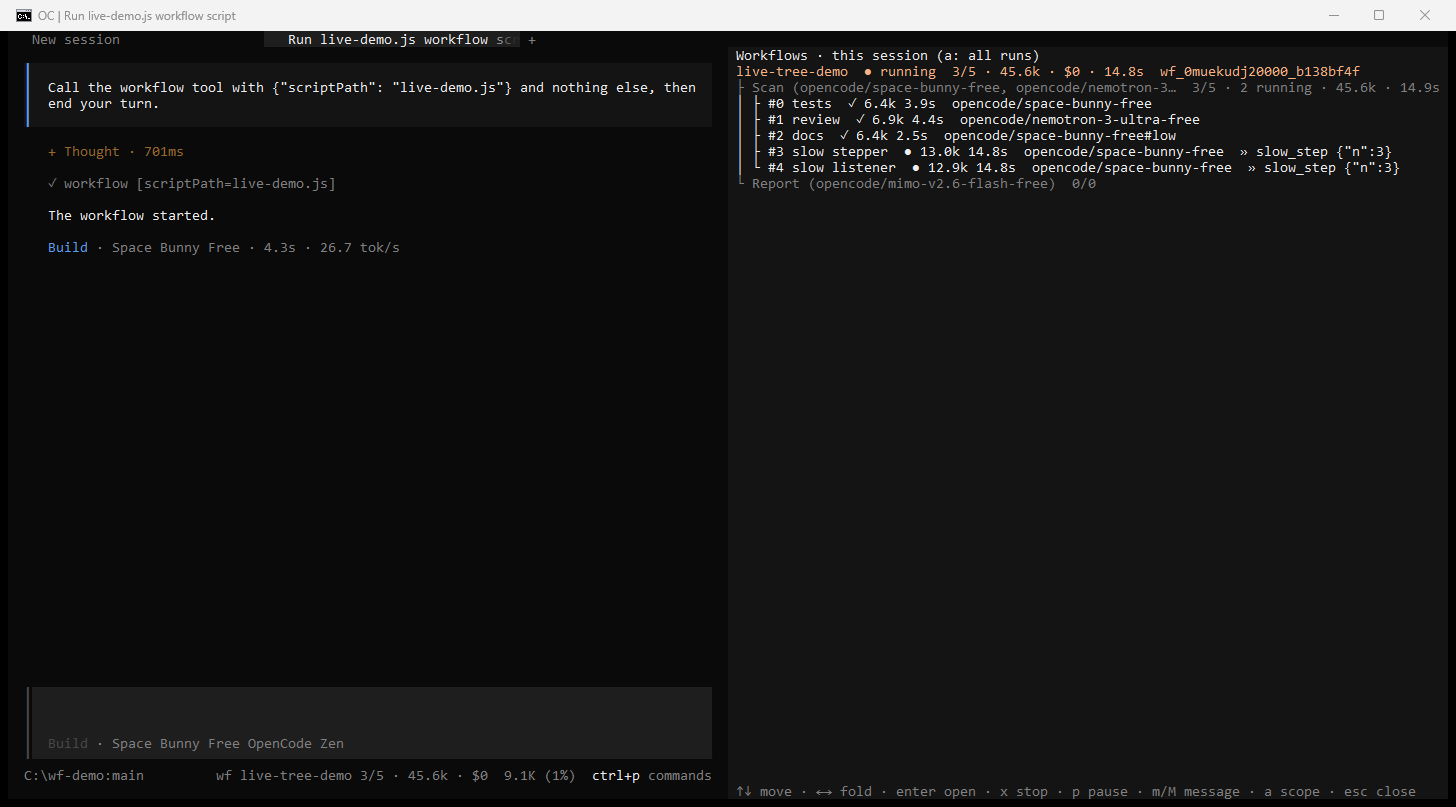
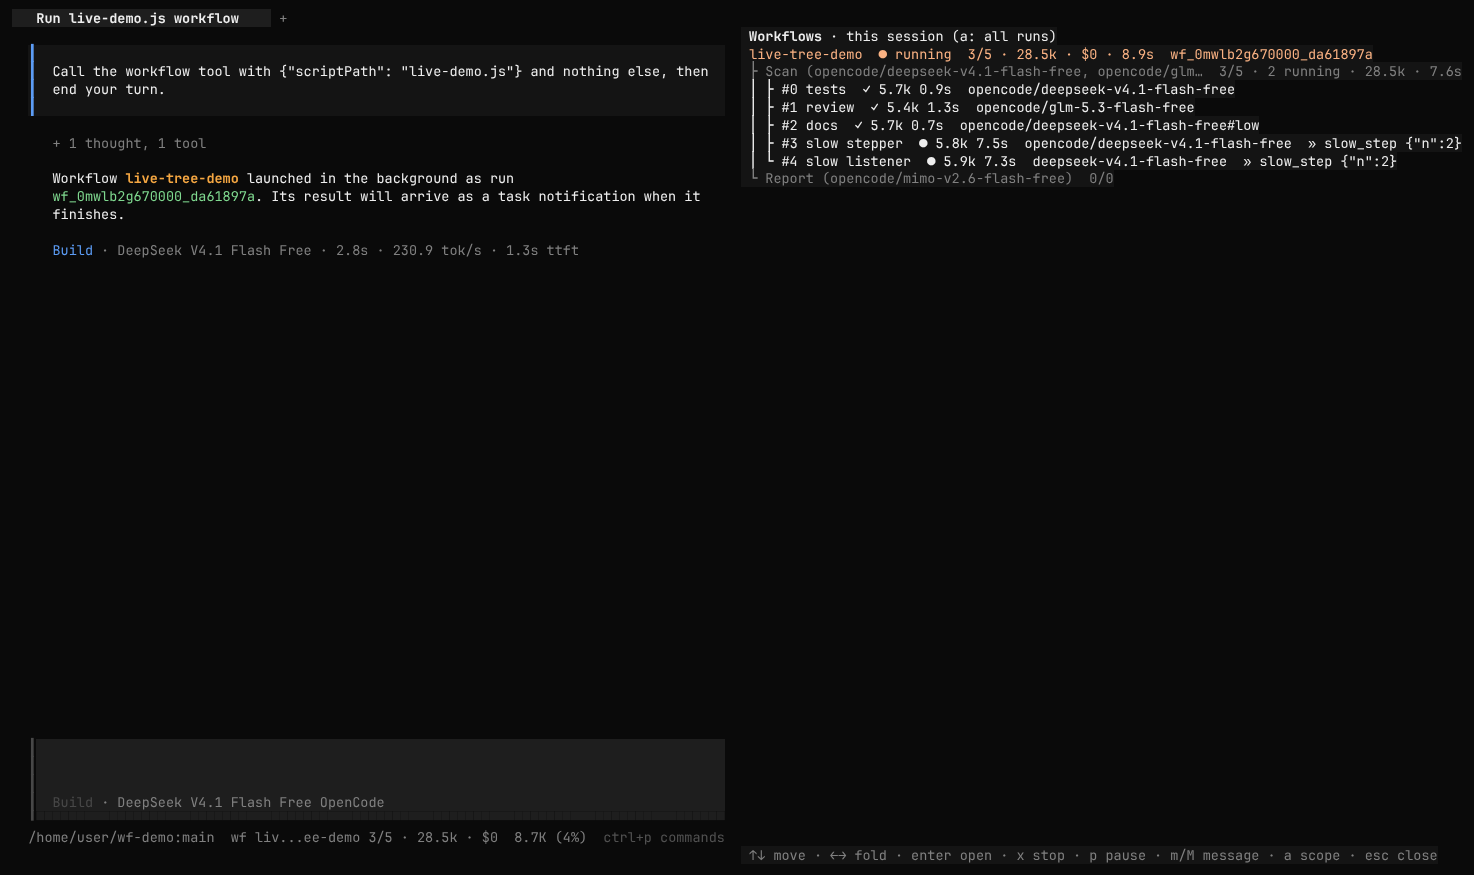
docs: retake the TUI screenshots on opencode 2.3.0; add agent dialog and sidebar shots
Six images from a live run on opencode 2.3.0 (tmux on Linux, free opencode/* models): the running
tree, the new agent dialog, the sidebar section, steering, the stop confirmation and the steered
agent's session. The narrow and finished-run images stay from 2.0.15 (free quota ran out before a
clean finish). PARITY X25/X26 are now live-verified; E2E.md gets the Linux capture recipe.

Claude-Session: https://claude.ai/code/session_01C7UiNHuVQpVWZhThwAvyXj

diff --git a/docs/PARITY.md b/docs/PARITY.md
@@ -144,8 +144,8 @@ Design: [`docs/design/steering-and-live-tree.md`](design/steering-and-live-tree.
 | X22 | opencode 2.3+ `experimental.idle` hook, steering side: when a workflow child of this plugin instance finishes its model work, the hook moves its message window to `finishing` and waits for the sends in flight; a sent message not yet in the child's context waits in its inbox, so opencode continues the SAME execution with it (no wake, no extra turn) and the window reopens. A message posted after that point is refused `finishing` (X02) instead of being parked. If the execution goes on anyway (another plugin's idle hook such as `/goal`, a user prompt in the child, the hook's cap), the window the hook closed reopens at the next model step (session `context` hook); one the runner closed itself stays closed. Other sessions are ignored (the `metadata.workflowRunId` tag is looked up once per session and cached). The hook never rejects (a rejected hook would fail the child) and stops after 3 s. Nothing depends on it: on 2.0.15 it registers and never fires, and a worktree child (hook in the worktree instance, which has no mailbox), a timed-out hook or an interrupted turn take the X03 wake. `OPENCODE_WORKFLOW_IDLE_HOOK=0` (also `false`, `no`, `off`) registers no hook; nothing is registered when `ctx.session.hook` is missing | EXT (source-verified, not live-verified on 2.3.0: `core/session/runner/llm.ts`, `plugin/goal.ts`) | `extensions.test.ts` "X22 …" ×2<br>unit `idle-hook.test.ts` "X22 …" ×10 |
 | X23 | opencode 2.3+ `experimental.idle` hook, structured-output side: a schema agent (P21) that stops without an accepted `workflow_submit` is nudged in the same execution with the runner's re-prompt text (the last validation error when its attempt submitted invalid output), as `synthetic({delivery:"steer", resume:false, metadata:{workflowRunId, workflowNudge:n}})`. Not when the agent is being stopped, its own subagent or image job is still running (X31), its runner has finished, or the attempt budget is spent. A nudge whose send finishes after the hook's 3 s cap is neither counted nor reopens the window (the runner's re-prompt counts that attempt). Nudges share the `MAX_STRUCTURED_OUTPUT_RETRIES` budget with invalid submissions and runner re-prompts: the submit registry counts each attempt once (an invalid submission followed by a stop is one attempt), then the JSON fallback or `schema_failed` follow as before. A worktree child is nudged by the worktree instance through the shared storage, whose copies are ordered by a revision number (a tie goes to the stored copy); an instance never revives a session another instance unregistered, and one instance's writes for a session are serialized. Messages sent during the nudged continuation are delivered (X01). With the hook off or absent the runner re-prompts in new turns (P21 unchanged) | EXT (source-verified, not live-verified on 2.3.0) | `extensions.test.ts` "X23 …" ×2<br>unit `idle-hook.test.ts` "X23 …" ×10, `opencode-runner.test.ts` "P21 X23 …" ×6 |
 | X24 | Freeform `workflow_script` tool (opencode 2.3.0 freeform tool input): a NEW inline script sent as raw text instead of JSON-escaped `{script}`. Input schema `{script: string}` (exactly one required string property, as opencode requires) with `freeform: {type: "text"}`; execute always receives `{script}` and takes the same launch path as `workflow {script}` (same output, P02; persisted script and `scriptPath`, P04; P03 errors). A single code fence wrapping the whole input is stripped. Any other key with a value (a JSON call from a model without freeform input) returns `status:"async_launched"` with the error `workflow_script takes only the script; use the workflow tool for args, name, scriptPath, resumeFromRunId or budget`, and nothing runs. `options.permission: "workflow"`: opencode hides a tool whose permission key (`options.permission ?? name`) is wholly denied, so every deny of `workflow` (workflow children P60, Plan mode, user and agent rules) hides it too; there is no separate rule. The session `context` hook drops it from requests whose model's `capabilities.freeform` (from `ctx.model.list()`, cached 5 min) does not list `text`; an unknown model keeps it (it still works as a JSON tool). The `workflow` tool's schema, options and description are unchanged (Claude Code parity, prompt caching). Opt out with the plugin option `freeformTool: false` or env `OPENCODE_WORKFLOW_FREEFORM=0` (`false`, `no`, `off`). The authoring reference tells the model to use it for new inline scripts when it is offered | EXT (the model-side raw-text encoding is opencode's and is not live-verified here) | `tool-surface.test.ts` "X24 …" ×11, "P01 …" (workflow tool unchanged) |
-| X25 | TUI agent dialog (`<leader>j`, palette "Workflows: agents (steer, stop, open)"): one searchable `ui.dialog.select` of the running and queued agents of the runs the tree shows (newest active run first, then by index), titled `#i label`, described `status · phase · model`, grouped by workflow name, starting on the agent selected in the panel. Search: `#3` or `3` lists that index first, then labels starting with the query, then labels, phases, workflow names and run ids containing it. Enter steers the agent (the `m` prompt); footer actions `ctrl+u` urgent steer (`M`), `ctrl+d` stop after a confirm (`x`) and `ctrl+o` open its session (a tab when tabs are on); `ctrl+n`/`ctrl+p` stay the list's own keys. Every action re-reads the agent's current row, so an agent that finished meanwhile gets the panel's toast instead, and one no longer listed a toast. The prompt or confirm an action opens replaces the dialog | EXT (not live-verified on 2.3.0) | `tui-client.test.ts` "X25 …" ×5 |
-| X26 | TUI sidebar (`sidebar.content` slot, after opencode's own sections): hidden when the session has no runs; a `Workflows` header with a collapse toggle only when there are more than two runs (the state is kept in the plugin's durable `storage.store`; collapsed, the header says `(1 running · $0.42)`: running and paused counts, or `n runs`, and the session's total cost); then up to 3 runs, active newest first, then the newest finished, then `+n more`. Each run: a dot colored by status, the name (≤ 24 cells), `<done>/<total>`, and a muted line: `[paused · ]<phase> · <n> running · <tokens> · $<cost>` while active (the last phase with running agents, else the first unfinished one), `<status> · <tokens> · $<cost>` once finished. Clicking a run opens the panel with that run selected and unfolded. A workflow child session's sidebar shows its parent's runs (the same mapping as the footer) | EXT (not live-verified on 2.3.0) | `tui-client.test.ts` "X26 …" ×3 |
+| X25 | TUI agent dialog (`<leader>j`, palette "Workflows: agents (steer, stop, open)"): one searchable `ui.dialog.select` of the running and queued agents of the runs the tree shows (newest active run first, then by index), titled `#i label`, described `status · phase` (no model: the dialog cuts long descriptions without an ellipsis; the tree rows show it), grouped by workflow name, starting on the agent selected in the panel. Search: `#3` or `3` lists that index first, then labels starting with the query, then labels, phases, workflow names and run ids containing it. Enter steers the agent (the `m` prompt); footer actions `ctrl+u` urgent steer (`M`), `ctrl+d` stop after a confirm (`x`) and `ctrl+o` open its session (a tab when tabs are on); `ctrl+n`/`ctrl+p` stay the list's own keys. Every action re-reads the agent's current row, so an agent that finished meanwhile gets the panel's toast instead, and one no longer listed a toast. The prompt or confirm an action opens replaces the dialog | EXT (live-verified on 2.3.0 in a Linux TUI: the dialog listed the running agents, Enter sent a message that the agent answered with STEERED-OK, `ctrl+d` opened the stop confirmation; README screenshots) | `tui-client.test.ts` "X25 …" ×5 |
+| X26 | TUI sidebar (`sidebar.content` slot, after opencode's own sections): hidden when the session has no runs; a `Workflows` header with a collapse toggle only when there are more than two runs (the state is kept in the plugin's durable `storage.store`; collapsed, the header says `(1 running · $0.42)`: running and paused counts, or `n runs`, and the session's total cost); then up to 3 runs, active newest first, then the newest finished, then `+n more`. Each run: a dot colored by status, the name (≤ 24 cells), `<done>/<total>`, and a muted line: `[paused · ]<phase> · <n> running · <tokens> · $<cost>` while active (the last phase with running agents, else the first unfinished one), `<status> · <tokens> · $<cost>` once finished. Clicking a run opens the panel with that run selected and unfolded. A workflow child session's sidebar shows its parent's runs (the same mapping as the footer) | EXT (live-verified on 2.3.0 in a Linux TUI: the section showed the running run with its phase, running count, tokens and cost, and showed the parent's run from a workflow agent's session; folding not exercised; README screenshots) | `tui-client.test.ts` "X26 …" ×3 |
 | X27 | TUI cold start: on opencode 2.3 `rpc.call` no longer waits for plugins to load, so the tree's first `list` can fail with `rpc.unavailable`. A `list` that throws is retried after 250, 500, 1000, 2000 and 4000 ms, then the tree gives up and says `workflows RPC unavailable (…); use /workflows` (`workflows list failed (…)` for another error). While it retries an unavailable RPC the panel only says `loading…`; another error is shown with `(retrying)`. The attempts reset on a successful list, on a target change (viewed session, scope) and when the host reports `plugin.updated`; a `delta` from the target Location while the tree is not ready lists again at once. A `list` answered `{ok:false}` is shown, not retried. The driver is host-agnostic (`src/client/sync.ts`) | EXT (not live-verified on 2.3.0) | `tui-client.test.ts` "X27 …" ×7<br>unit `client.test.ts` |
 | X28 | Desktop app composer pill (`./gui-experimental` entry, `ComposerPill`): shown above a session's composer only while that session has an active run and the `dynamic-workflows` RPC of the session's server answered; label `wf <done>/<total> · <tokens> · $<cost>` of the newest active run (` +n` for more, the TUI footer's parts), its title (accessible name and menu heading) `Workflow <name>` (`Workflow <name> ‖ paused`); tone `danger` when an active run has an error or a failed agent, else `warning` when paused or with warnings; one menu row per active run (newest first, detail `<done>/<total> · <tokens> · $<cost>`) that opens the side panel with that run selected and unfolded. A workflow child's tab targets its parent session and the parent's Location (X15's rule). One sync (`TreeSync`, X27) per server and Location that an open tab needs, pruned when tabs close; calls go to the session's own server (`ctx.servers.get(id).client`), one event subscription per server, subscribed again on reconnect or a new client, with a resync every 15 s while a run is active. On a server whose plugin is absent, disabled or older, `list` fails: the pill stays hidden and the panel says why in one line; it retries on a routed-session change, a reconnect, `plugin.updated` or any delta. Missing fields read as defaults | EXT (not live-verified: experimental GUI API, opencode 2.3) | `gui.test.ts` "X28 …" ×7<br>unit `install-docs.test.ts` (bundle) |
 | X29 | Desktop app side panel `tree` (`Panel`, side region, `narrow` width, a mobile view; key `<plugin id>:tree`): opened by the command "Workflows: toggle the live progress tree" (also `/wf`), the side panel `+` menu, or a pill row. Rows from the TUI's `rowsFor` (run → phases → agents) with a status glyph, title and a muted detail line (status, counts, tokens, cost, elapsed, model, activity, messages, run id); icon buttons dispatch exactly `actionFor(row, key)`, each shown only when its action applies: fold (run, phase), open (an agent's or the run's session in a tab, not the one the panel is next to), pause/resume (run rows), stop (after a `danger` confirm), message and urgent message (`dialogs.prompt`); info and `control` answers as toasts. A switch shows this session's runs or every run of the project. Fold, scope and selection are kept per tab (session key), pruned when the tab closes | EXT (not live-verified: experimental GUI API, opencode 2.3) | `gui.test.ts` "X29 …" ×6 |

diff --git a/README.md b/README.md
@@ -323,9 +323,10 @@ an extension: Claude Code's workflows do not have it.
 
 Or ask the model ("tell the researchers to prefer primary sources"): it calls `workflow_control`
 with `action: "message"`. The model only does this when you ask, and only for its own session's runs.
-In the TUI, select an agent in the [live progress tree](#live-progress-tree-tui) and press `m`:
+In the TUI, select an agent in the [live progress tree](#live-progress-tree-tui) and press `m`, or
+pick it in the agent dialog (`ctrl+x j`) and press Enter:
 
-![The live tree's message dialog, sending "Also end your reply with STEERED-OK." to the running agent #4 slow listener](docs/assets/live-tree-steer.png)
+![The message dialog for the running agent #4 slow listener, with the text "Also end your reply with STEERED-OK."; the tree behind it shows both slow agents on slow_step call 6](docs/assets/live-tree-steer.png)
 
 | Target | Meaning |
 |---|---|
@@ -360,7 +361,7 @@ How it behaves:
 In the terminal UI, the plugin adds a live, interactive view of your workflow runs. This is an
 extension beyond Claude Code's workflow tool.
 
-![The live progress tree next to a session: the Scan phase lists the models its agents use, the Report phase shows its meta model label, and each agent row shows the model it runs on (one with the #low effort variant, one on another model) while two agents run slow_step tool calls](docs/assets/live-tree-running.png)
+![The live progress tree next to a session on opencode 2.3.0: the Scan phase lists the models its agents use, the Report phase shows its meta model label, and each agent row shows the model it runs on (one with the #low effort variant, one on opencode/glm-5.3-flash-free) while two agents run slow_step tool calls](docs/assets/live-tree-running.png)
 
 - **Footer.** While a run of the current session is active, the prompt footer shows
   `wf <name> <done>/<total> · <tokens> · $<cost>` (`+n` when more runs are active). The home screen
@@ -376,7 +377,7 @@ extension beyond Claude Code's workflow tool.
   and elapsed time always stay. The footer likewise shortens only the workflow name.
   ![The tree in a 120-column terminal: the run id is gone; on the rows that don't fit, the agent model loses its provider and is shortened along with the activity, while status, tokens and time stay; #3 was stopped](docs/assets/live-tree-narrow.png)
 - **Models.** Each agent row shows the model the agent runs on, as `provider/model#variant`:
-  `opencode/space-bunny-free#low` is the parent's model with `effort: 'low'`, and an agent with its
+  `opencode/deepseek-v4.1-flash-free#low` is the parent's model with `effort: 'low'`, and an agent with its
   own `model` shows that model. It is the model opencode reports for the agent's session, so if
   opencode falls back to another model, the row shows it (and the agent gets a warning). A phase
   shows its `meta.phases[].model` label when the script declares one, and otherwise the models its
@@ -411,21 +412,27 @@ or run id. Then:
 | `ctrl+d` | stop the agent, after a confirmation |
 | `ctrl+o` | open the agent's session (in a tab when tabs are on) |
 
+![The agent dialog over a running workflow: a search line, the two running agents #3 slow stepper and #4 slow listener with their status and phase, and the actions urgent steer ctrl+u, stop ctrl+d, open ctrl+o](docs/assets/live-tree-agent-dialog.png)
+
 **Sidebar.** When the session has runs, the session sidebar gets a **Workflows** section under
 opencode's own: up to three runs (running ones first) with a colored status dot, `done/total`, and a
 line with the current phase, running agents, tokens and cost. Click a run to open the panel on it.
 With more than two runs, click the header to fold the section (it stays folded across restarts and
 then shows `(1 running · $0.42)`).
 
+![The session sidebar under Context: a Workflows section with live-tree-demo at 3/5 and the line "Scan · 2 running · 28.5k · $0", while the prompt footer shows the same run](docs/assets/live-tree-sidebar.png)
+
 Right after opencode starts, the plugins may still be loading: the panel says `loading…` and the tree
 retries for a few seconds before it reports that the workflows RPC is unavailable.
 
-| Opening an agent (Enter) | Stopping it (`x`, then confirm) | Finished, with the notification |
+| Opening an agent (Enter) | Stopping it (`x`, or `ctrl+d` in the agent dialog, then confirm) | Finished, with the notification |
 |---|---|---|
-| ![The steered agent's child session: the workflow message arrives between two slow_step calls and its reply ends with STEERED-OK; the tree still tracks the parent run](docs/assets/live-tree-open-agent.png) | ![The stop confirmation for #3 slow stepper](docs/assets/live-tree-stop.png) | ![The parent session answers the task notification; the tree shows the finished run with one stopped and one steered agent](docs/assets/live-tree-done.png) |
+| ![The steered agent's child session: the workflow message arrives between its slow_step calls and its reply ends with STEERED-OK; the sidebar's Workflows section still shows the parent's run](docs/assets/live-tree-open-agent.png) | ![The stop confirmation for #3 slow stepper, opened from the agent dialog](docs/assets/live-tree-stop.png) | ![The parent session answers the task notification; the tree shows the finished run with one stopped and one steered agent](docs/assets/live-tree-done.png) |
 
-The TUI screenshots come from opencode 2.0.15 in Windows conhost, with free `opencode/*` models
-(the parent on `opencode/space-bunny-free`) and a demo tool, `slow_step`, that takes 4 s per call.
+The TUI screenshots come from opencode 2.3.0 in a Linux terminal (tmux, 180×48), with free
+`opencode/*` models (the parent on `opencode/deepseek-v4.1-flash-free`) and a demo tool,
+`slow_step`, that takes 4 s per call. The narrow-panel and finished-run images are from the same
+demo on opencode 2.0.15 in Windows conhost.
 
 **Notifications.** When a run finishes while the terminal is not focused, the TUI sends a desktop
 notification if you enabled opencode's attention notifications in `cli.json` (next to your

diff --git a/docs/E2E.md b/docs/E2E.md
@@ -163,6 +163,29 @@ console size). Seen: the rows showed `opencode/space-bunny-free#low` and the oth
 `agents/<i>.json` recorded the same `model`, the unlabeled phase listed its agents' models, and at
 120 columns the agent models lost their provider first.
 
+### On Linux (0.3.0 screenshots)
+
+The 0.3.0 README images (`live-tree-running`, `-agent-dialog`, `-sidebar`, `-steer`, `-stop`,
+`-open-agent`) were taken on opencode 2.3.0 without a desktop:
+
+1. `npm run build`. Put the sandbox under `.sandbox/<name>/` (`XDG_*`, `OPENCODE_TEST_HOME`, a
+   `package.json` with another name at its root) with `opencode.json`
+   `{"plugins":["file:///<repo>"],"model":"opencode/deepseek-v4.1-flash-free"}`. Use a git project in
+   a short path outside the repo with the `slow_step` plugin and the five-agent script above.
+2. Start the TUI in a fixed-size tmux pane with truecolor: a tmux config with
+   `set -g default-terminal "tmux-256color"` and `set -as terminal-overrides ",*:RGB"`, then
+   `tmux -L shots -f <conf> new-session -d -s s -x 180 -y 48 "<launch.sh>"`, where the launch script
+   exports the sandbox env and `COLORTERM=truecolor` and runs `opencode2 <project>`.
+3. Drive it with `tmux -L shots send-keys -t s -l '<text>'`, `Enter`, `C-x o` (panel), `C-x j`
+   (agent dialog), `C-d` (stop), `Down`. Capture with `tmux -L shots capture-pane -p -e -t s`
+   (24-bit SGR escapes), convert the escapes to an HTML `<pre>` (JetBrains Mono, 13.5 px, background
+   `#0a0a0a`) and screenshot the `<pre>` with Playwright's Chromium at device scale factor 1.
+4. The TUI starts a background `opencode serve --service`: when done, kill the tmux server and only
+   the service whose environment points at your sandbox.
+
+Free models have a daily quota (`provider.free-limit`); one demo run used most of it, and the last
+agent failed with that error. The finished-run image therefore stays the 2.0.15 one.
+
 ## What is covered (live)
 
 

diff --git a/docs/OPENCODE-API-NOTES.md b/docs/OPENCODE-API-NOTES.md
@@ -11,6 +11,14 @@ changed in **2.3.0** (the current pin).
 Read from the `v2.0.15..v2.3.0` tags of `anomalyco/opencode`; the unit and parity suites pass against
 the 2.3.0 packages and `tsc` is clean against their types.
 
+Seen live on 2.3.0 (TUI in tmux on Linux, free `opencode/*` models, the 0.3.0 plugin from a
+directory install): the plugin loaded with its TUI part, a run's agents ran on their per-agent models
+(one `#low` variant), a steering message sent from the agent dialog was read at the agent's next step
+boundary (its reply ended with the requested marker), the sidebar `sidebar.content` slot rendered
+for the session and for a workflow agent's session, the task notification reached the parent, and an
+agent that hit `provider.free-limit` reported that error text (the failed-turn `error`, not the old
+generic message). The idle hook, freeform input and background-subagent waits were not exercised.
+
 - **Every `ctx.*` call the plugin makes keeps its 2.0.15 shape** (session, tool, permission, agent,
   model, worktree, storage, rpc, event, command). Type-only changes: `session.wait` moved to
   `ExperimentalSessionApi` (still on `ctx.session`; the client marks the old path "removed in the

diff --git a/CHANGELOG.md b/CHANGELOG.md
@@ -8,6 +8,18 @@ may contain breaking changes.
 
 ## [Unreleased]
 
+### Fixed
+
+- TUI agent dialog (`ctrl+x j`): each row's description is now `status · phase`. With the model
+  appended, opencode's dialog cut the line without an ellipsis and the model showed as `open` (seen
+  live on opencode 2.3.0). The tree rows still show each agent's model.
+
+### Docs
+
+- README screenshots retaken on opencode 2.3.0 (running tree, steering, stop, steered agent session)
+  plus two new ones: the agent dialog and the sidebar section. `docs/E2E.md` describes the Linux
+  (tmux) capture recipe.
+
 ## [0.3.0] - 2026-11-17
 
 ### Added
